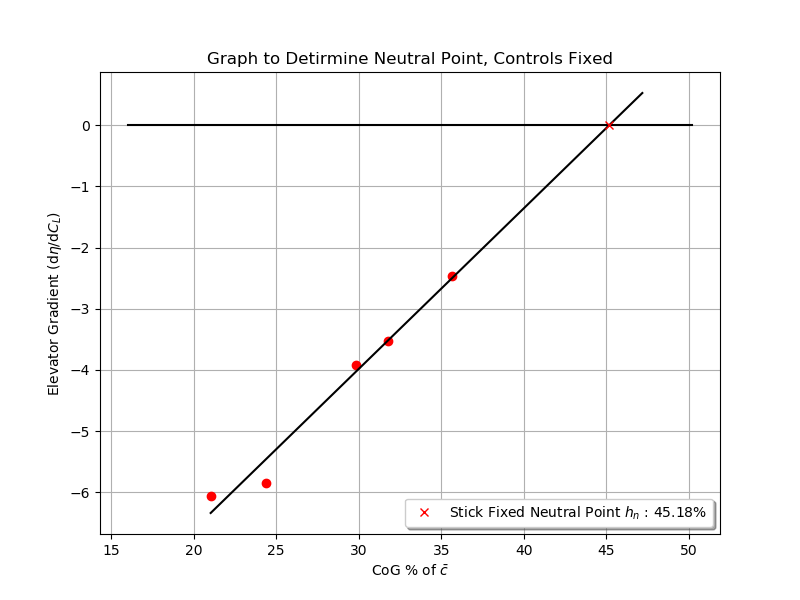
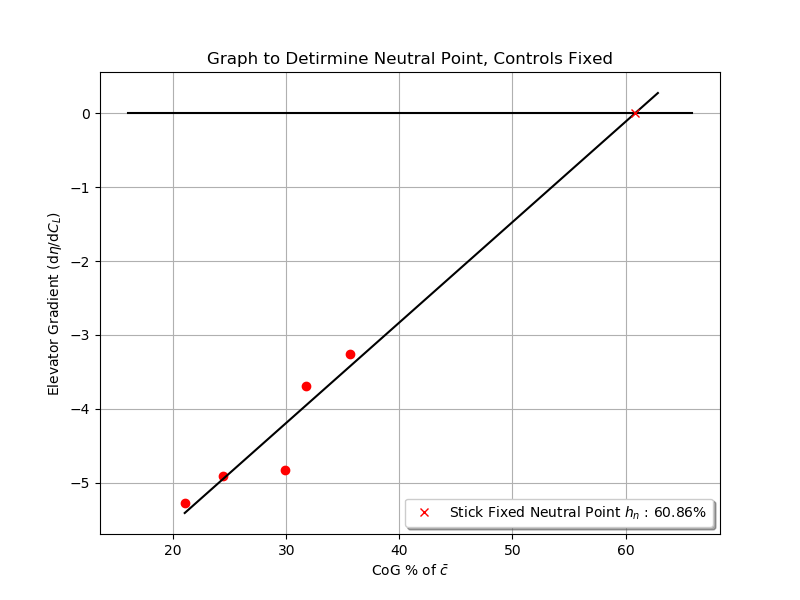
Add Stick Fixed Manoeuvre Part 1

diff --git a/main.py b/main.py
@@ -62,6 +62,7 @@ def cogcalc(masses, pos):
     cogpos = ((np.sum(mx)/np.sum(m)) - 5.149) * (100/1.717)
     return cogpos
 
+
 def knts2ms(v):
     return v * 0.51444
 
@@ -179,6 +180,57 @@ def plot_static_stick_free(masses_list, data_list, ignore=None):
     plt.show()
 
 
+def plot_man_stick_fixed(masses_list, data_list, ignore=None):
+    point_bank = ['ro', 'bo', 'co', 'go', 'mo', 'rx', 'bx', 'cx', 'gx', 'mx']
+    max_gee = []
+    gradient_record = []
+    cog_list = []
+    plt.figure(figsize=(10, 7))
+    for data_id, masses in enumerate(masses_list):
+        data = data_list[data_id]
+        gee = []
+        angle = []
+        cog_list.append(cogcalc(masses, row_pos))
+        for test_id, test in enumerate(data):
+            if ignore is None or ignore[data_id] is None or test_id not in ignore[data_id]:
+                gee.append(test[2])
+                angle.append(test[0])
+
+        z = np.polyfit(gee, angle, 1)
+        gradient_record.append(z[0])
+        plt.plot(gee, angle, point_bank[data_id % len(point_bank)],
+                 label='LoBF: ' + r'$\eta$' + '=[' + str(format(z[0], '.3f')) + 'g + ' +
+                       str(format(z[1], '.3f')) + ']  CoG: ' + str(format(cogcalc(masses, row_pos), '.2f')) +
+                       '% ' + r'$\bar{c}$')
+        lobf = np.poly1d(z)
+        plt.plot([0, np.max(gee)], [lobf(0), lobf(np.max(gee))], 'k-')
+        max_gee.append(np.max(gee))
+    plt.plot([0, np.max(max_gee)], [0, 0], 'k-')
+    plt.xlabel('Normal Acceleration (g)')
+    plt.ylabel('Elevator Angle (' + r'$\eta^\circ$' + ')')
+    plt.legend(loc='lower left', shadow=True)
+    plt.grid(True)
+    plt.title("Manoeuvre Stability, Controls Fixed")
+    plt.savefig('graphs/manstabilityFixed.png')
+
+    plt.figure(figsize=(8, 6))
+    plt.plot(cog_list, gradient_record, 'ro')
+    z1 = np.polyfit(cog_list, gradient_record, 1)
+    lobf1 = np.poly1d(z1)
+    # find x intercept
+    x_int = (0-z1[1])/z1[0]
+    print(x_int)
+    plt.plot([np.min(cog_list)-5, x_int+5], [0, 0], 'k-')
+    plt.plot([np.min(cog_list), x_int+2], [lobf1(np.min(cog_list)), lobf1(x_int+2)], 'k-')
+    plt.plot(x_int, 0, 'rx', label='Stick Fixed Manoeuvre Point ' + r'$h_m$' + ' : ' + str(format(x_int, '.2f')) + '%')
+    plt.xlabel('CoG % of ' + r'$\bar{c}$')
+    plt.ylabel('Elevator Gradient (' + r'd$\eta$/dg' + ')')
+    plt.legend(loc='lower right', shadow=True)
+    plt.grid(True)
+    plt.title("Graph to Determine Manoeuvre Point, Controls Fixed")
+    plt.savefig('graphs/manpointManFixed.png')
+    plt.show()
+
 """
 print(str(cogcalc(A_mass, row_pos)))
 print(str(cogcalc(B_mass, row_pos)))
@@ -193,3 +245,4 @@ plot_static_stick_fixed([A_mass, B_mass, C_mass, D_mass, E_mass], [A_static, B_s
 
 plot_static_stick_free([A_mass, B_mass, C_mass, D_mass, E_mass], [A_static, B_static, C_static, D_static, E_static])
 
+plot_man_stick_fixed([A_mass, B_mass, C_mass, D_mass, E_mass], [A_man, B_man, C_man, D_man, E_man])
